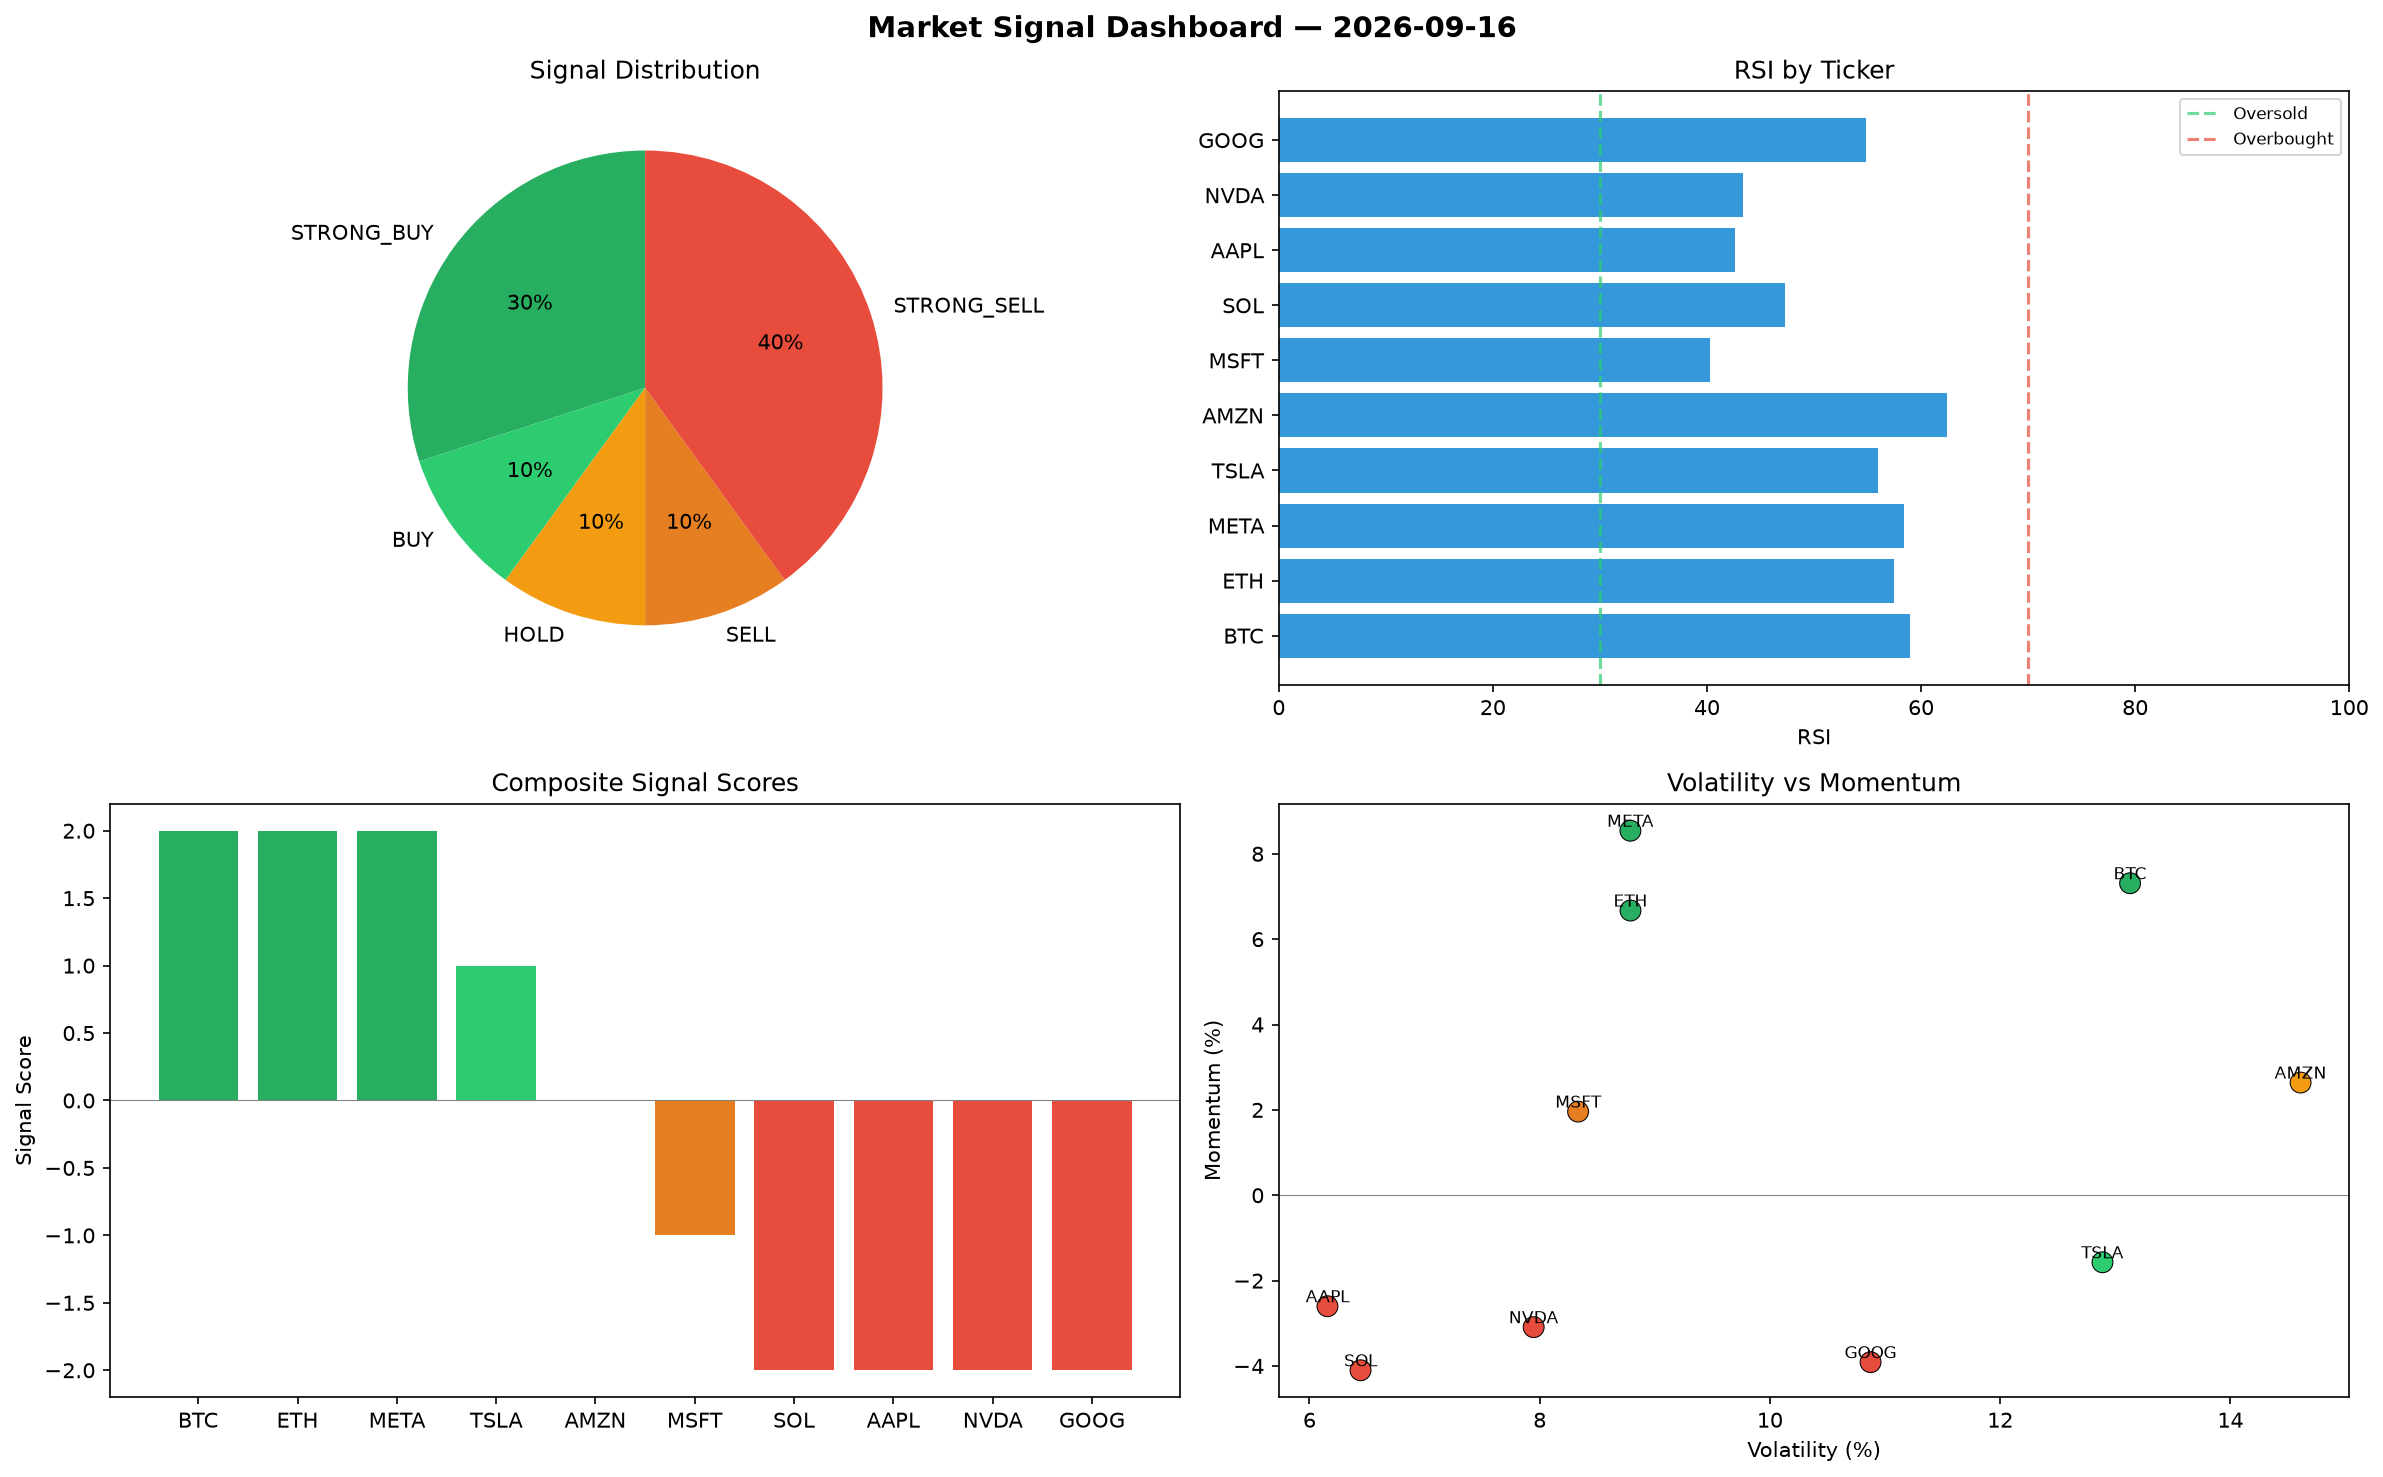
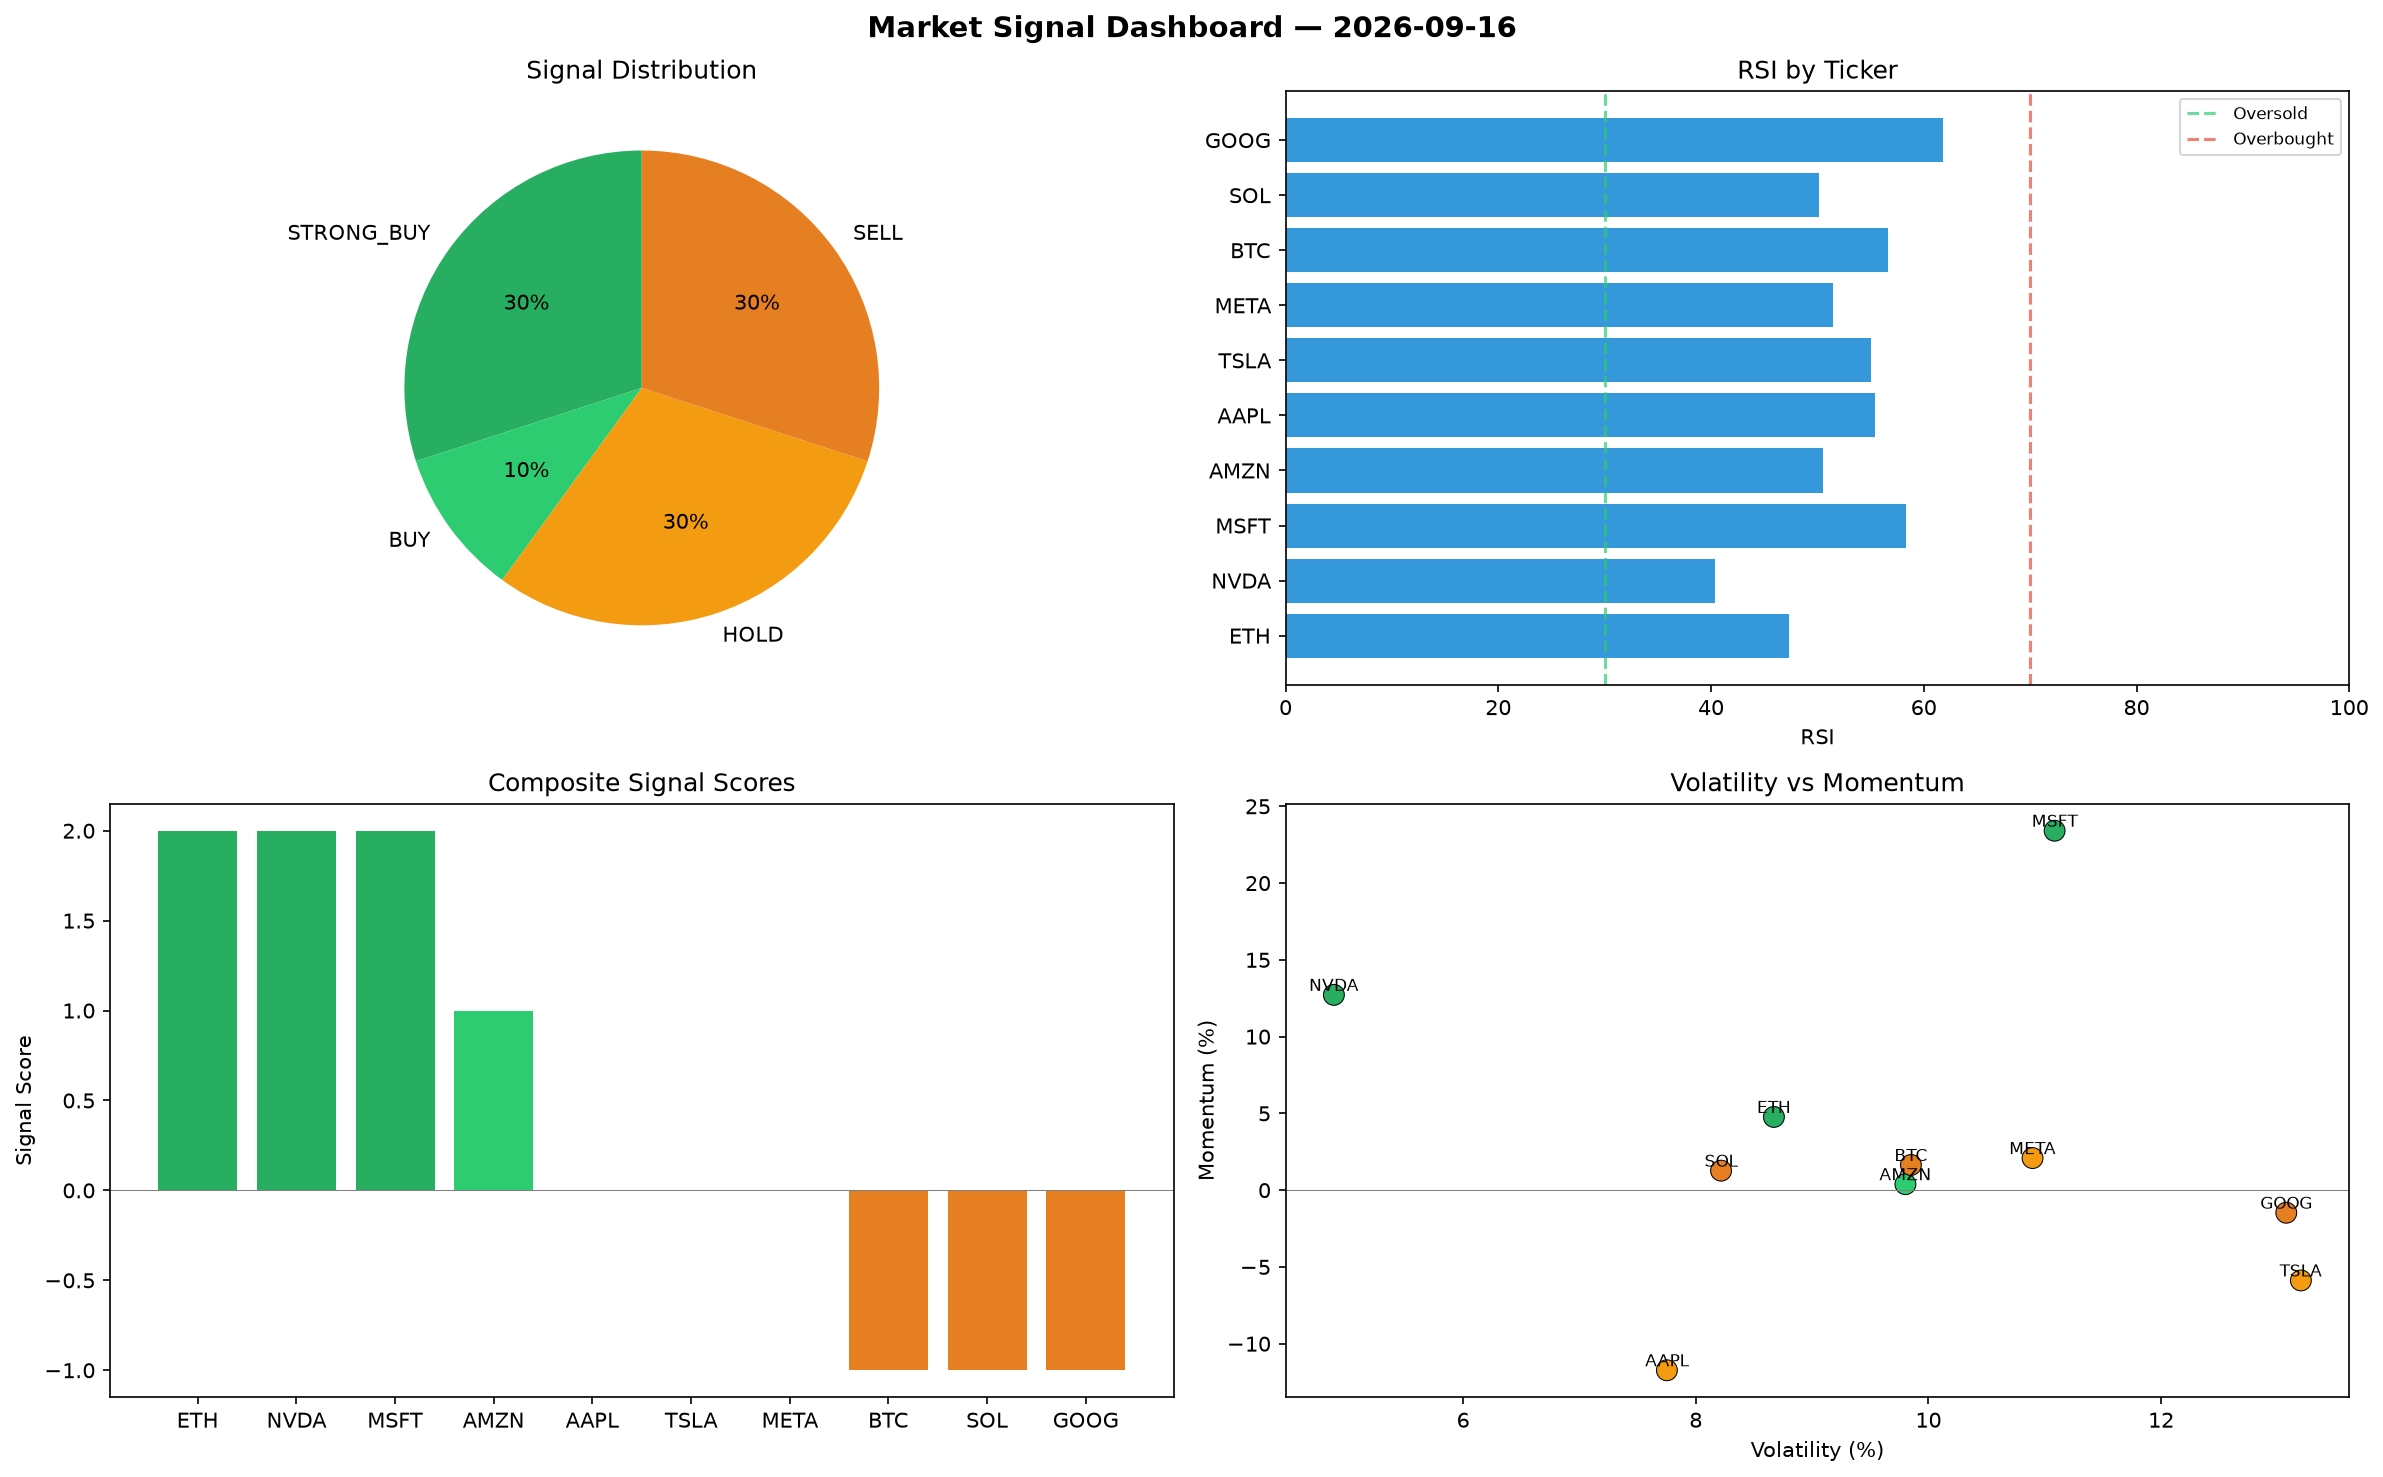
automated-bots: market signals 2026-09-16T13:37

diff --git a/logs/2026-09-16.md b/logs/2026-09-16.md
@@ -1,6 +1,6 @@
 # Market Signal Report — 2026-09-16
 
-**Run ID:** `ec40a20a42` | **Buy:** 4 | **Sell:** 5 | **Hold:** 1
+**Run ID:** `233a63f634` | **Buy:** 4 | **Sell:** 3 | **Hold:** 3
 
 ![Dashboard](2026-09-16_dashboard.png)
 
@@ -8,28 +8,28 @@
 
 | Ticker | Price | Signal | Score | RSI | Momentum | Confidence |
 |--------|-------|--------|-------|-----|----------|------------|
-| BTC | $4336.96 | **STRONG_BUY** | 2 | 58.99 | 0.0731 | 0.5 |
-| ETH | $1815.14 | **STRONG_BUY** | 2 | 57.45 | 0.0667 | 0.5 |
-| META | $4624.35 | **STRONG_BUY** | 2 | 58.42 | 0.0854 | 0.5 |
-| TSLA | $303.31 | **BUY** | 1 | 55.95 | -0.0157 | 0.25 |
-| AMZN | $761.36 | **HOLD** | 0 | 62.42 | 0.0264 | 0.0 |
-| MSFT | $237.15 | **SELL** | -1 | 40.28 | 0.0196 | 0.25 |
-| SOL | $2965.83 | **STRONG_SELL** | -2 | 47.27 | -0.041 | 0.5 |
-| AAPL | $1554.24 | **STRONG_SELL** | -2 | 42.66 | -0.026 | 0.5 |
-| NVDA | $1458.24 | **STRONG_SELL** | -2 | 43.38 | -0.0309 | 0.5 |
-| GOOG | $82.72 | **STRONG_SELL** | -2 | 54.87 | -0.0391 | 0.5 |
+| ETH | $3602.17 | **STRONG_BUY** | 2 | 47.3 | 0.0477 | 0.5 |
+| NVDA | $86.21 | **STRONG_BUY** | 2 | 40.42 | 0.1272 | 0.5 |
+| MSFT | $2662.95 | **STRONG_BUY** | 2 | 58.36 | 0.2341 | 0.5 |
+| AMZN | $4131.2 | **BUY** | 1 | 50.52 | 0.0039 | 0.25 |
+| AAPL | $872.12 | **HOLD** | 0 | 55.38 | -0.1173 | 0.0 |
+| TSLA | $4854.88 | **HOLD** | 0 | 55.04 | -0.0588 | 0.0 |
+| META | $2037.73 | **HOLD** | 0 | 51.47 | 0.0209 | 0.0 |
+| BTC | $3932.38 | **SELL** | -1 | 56.66 | 0.0164 | 0.25 |
+| SOL | $4872.35 | **SELL** | -1 | 50.17 | 0.0127 | 0.25 |
+| GOOG | $4041.9 | **SELL** | -1 | 61.82 | -0.0147 | 0.25 |
 
 ## Delta vs Yesterday
 
 | Ticker | Today | Yesterday | Price Change | Signal Changed |
 |--------|-------|-----------|-------------|----------------|
-| BTC | STRONG_BUY | STRONG_SELL | 📈 305.77% | ⚠ YES |
-| ETH | STRONG_BUY | STRONG_SELL | 📈 297.74% | ⚠ YES |
-| META | STRONG_BUY | STRONG_SELL | 📈 156.63% | ⚠ YES |
-| TSLA | BUY | BUY | 📉 -88.06% | — |
-| AMZN | HOLD | STRONG_BUY | 📉 -85.42% | ⚠ YES |
-| MSFT | SELL | STRONG_BUY | 📉 -93.89% | ⚠ YES |
-| SOL | STRONG_SELL | STRONG_BUY | 📈 190.22% | ⚠ YES |
-| AAPL | STRONG_SELL | HOLD | 📈 24.0% | ⚠ YES |
-| NVDA | STRONG_SELL | HOLD | 📈 2.25% | ⚠ YES |
-| GOOG | STRONG_SELL | STRONG_BUY | 📉 -98.01% | ⚠ YES |
+| ETH | STRONG_BUY | STRONG_SELL | 📈 689.33% | ⚠ YES |
+| NVDA | STRONG_BUY | HOLD | 📉 -93.96% | ⚠ YES |
+| MSFT | STRONG_BUY | STRONG_BUY | 📉 -31.41% | — |
+| AMZN | BUY | STRONG_BUY | 📉 -20.91% | ⚠ YES |
+| AAPL | HOLD | HOLD | 📉 -30.42% | — |
+| TSLA | HOLD | BUY | 📈 91.15% | ⚠ YES |
+| META | HOLD | STRONG_SELL | 📈 13.08% | ⚠ YES |
+| BTC | SELL | STRONG_SELL | 📈 267.91% | ⚠ YES |
+| SOL | SELL | STRONG_BUY | 📈 376.79% | ⚠ YES |
+| GOOG | SELL | STRONG_BUY | 📉 -2.88% | ⚠ YES |
